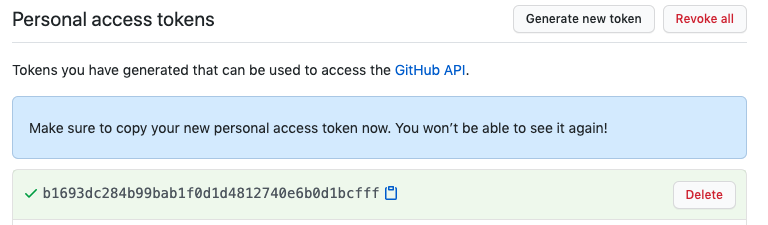
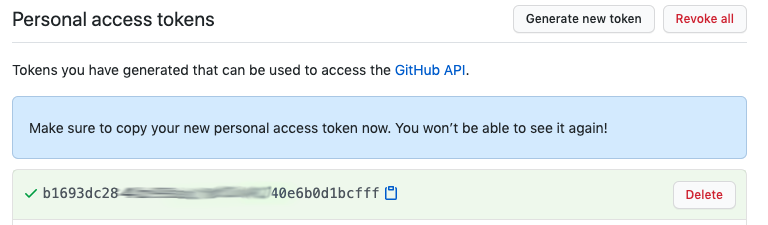
token

Changed region(s): [[0.1562, 0.8089, 0.375, 0.9022]]

diff --git a/intellij/README.md b/intellij/README.md
@@ -1,6 +1,5 @@
 # Werken met git in Intellij
 
-
   * [Enable version control](#enable-version-control)
   * [Check out a project from a remote host (clone)](#check-out-a-project-from-a-remote-host--clone-)
   * [Exclude files from version control (ignore)](#exclude-files-from-version-control--ignore-)
@@ -198,7 +197,27 @@ In het Git Tool Window wordt een extra tabblad toegevoegd met de history van enk
 
 ![history file](https://github.com/vives-advprog/werken-met-git/blob/master/intellij/images/historyFile.png 'history file')
 
-## Register a GitHub account
+## Register a GitHub account
+
+Open https://github.com en log in
+
+Ga naar de settings van je profiel: https://github.com/settings/profile
+
+Kies in de linkerkolom voor: Developer settings 
+
+Om vervolgens in de linkerkolom **Personal access tokens** aan te klikken
+
+![accessToken](https://github.com/vives-advprog/werken-met-git/blob/master/intellij/images/accessToken.png 'accessToken')
+
+Klik op de knop **Generate new token**
+
+Geef die een naam (Note). Bv: Intellij
+
+Vink alle vinkjes aan en klik onderaan op **Generate token**
+
+![resultToken](https://github.com/vives-advprog/werken-met-git/blob/master/intellij/images/resultToken.png 'resultToken')
+
+Kopieer het token en open Intellij
 
 ![preferences](https://github.com/vives-advprog/werken-met-git/blob/master/intellij/images/preferences.png 'preferences')
 
@@ -209,4 +228,9 @@ MacOS: **Intellij IDEA | Preferences**
 
 Klik + om een GitHub account toe te voegen
 
-Log in Via GitHub
+Log in Via token
+
+![token](https://github.com/vives-advprog/werken-met-git/blob/master/intellij/images/token.png 'token')
+
+Plak het net aangemaakte token in Intellij
+
